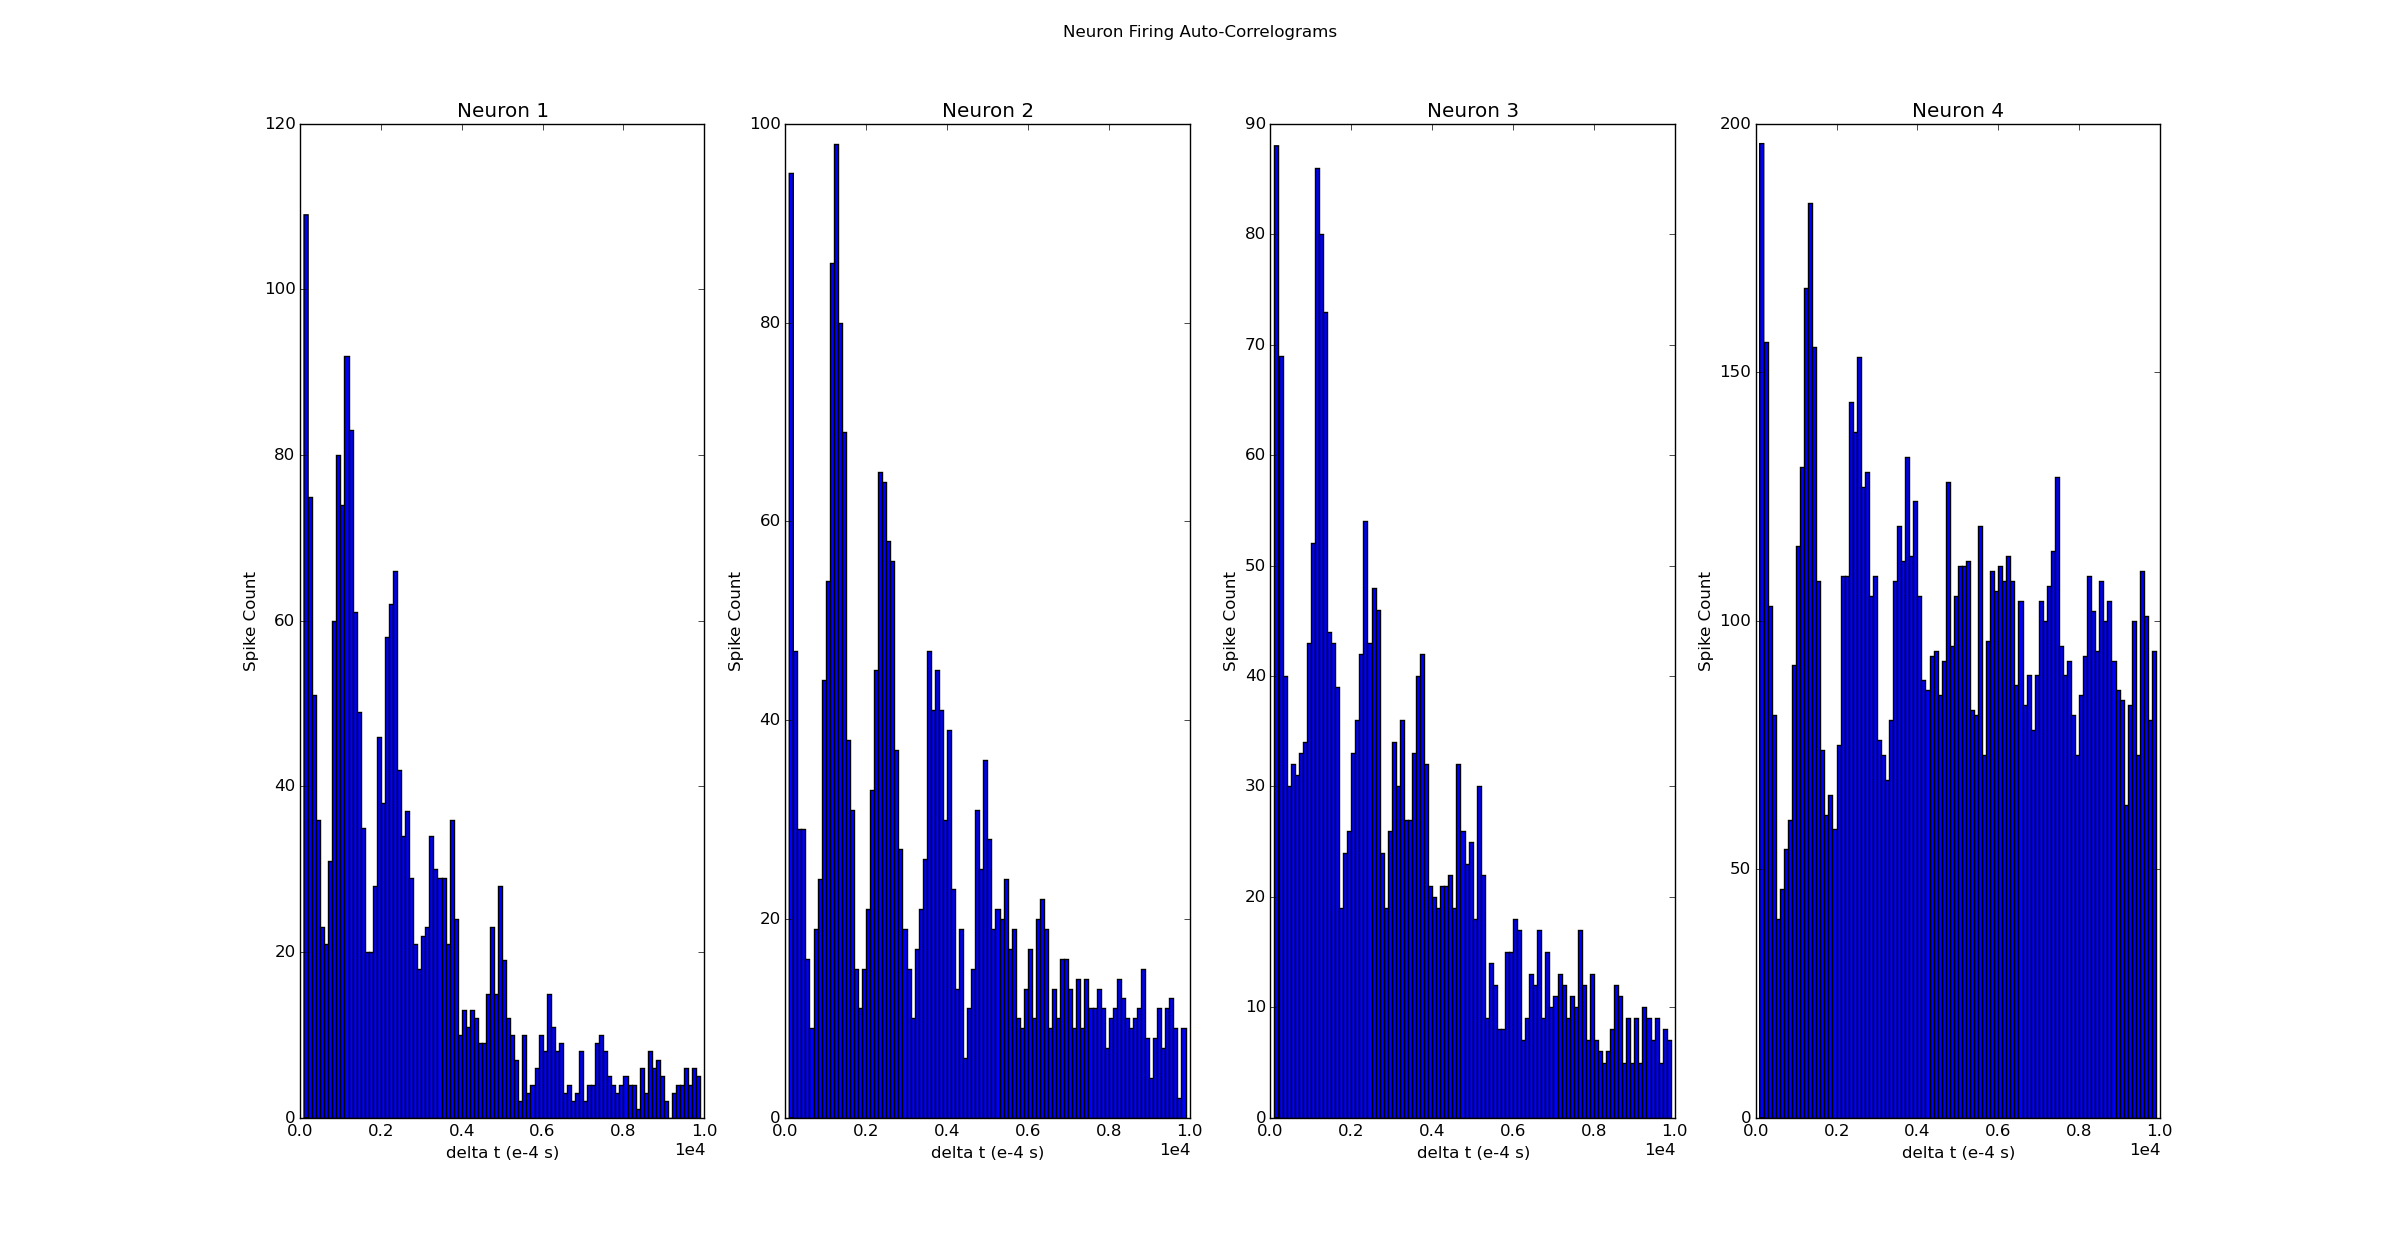
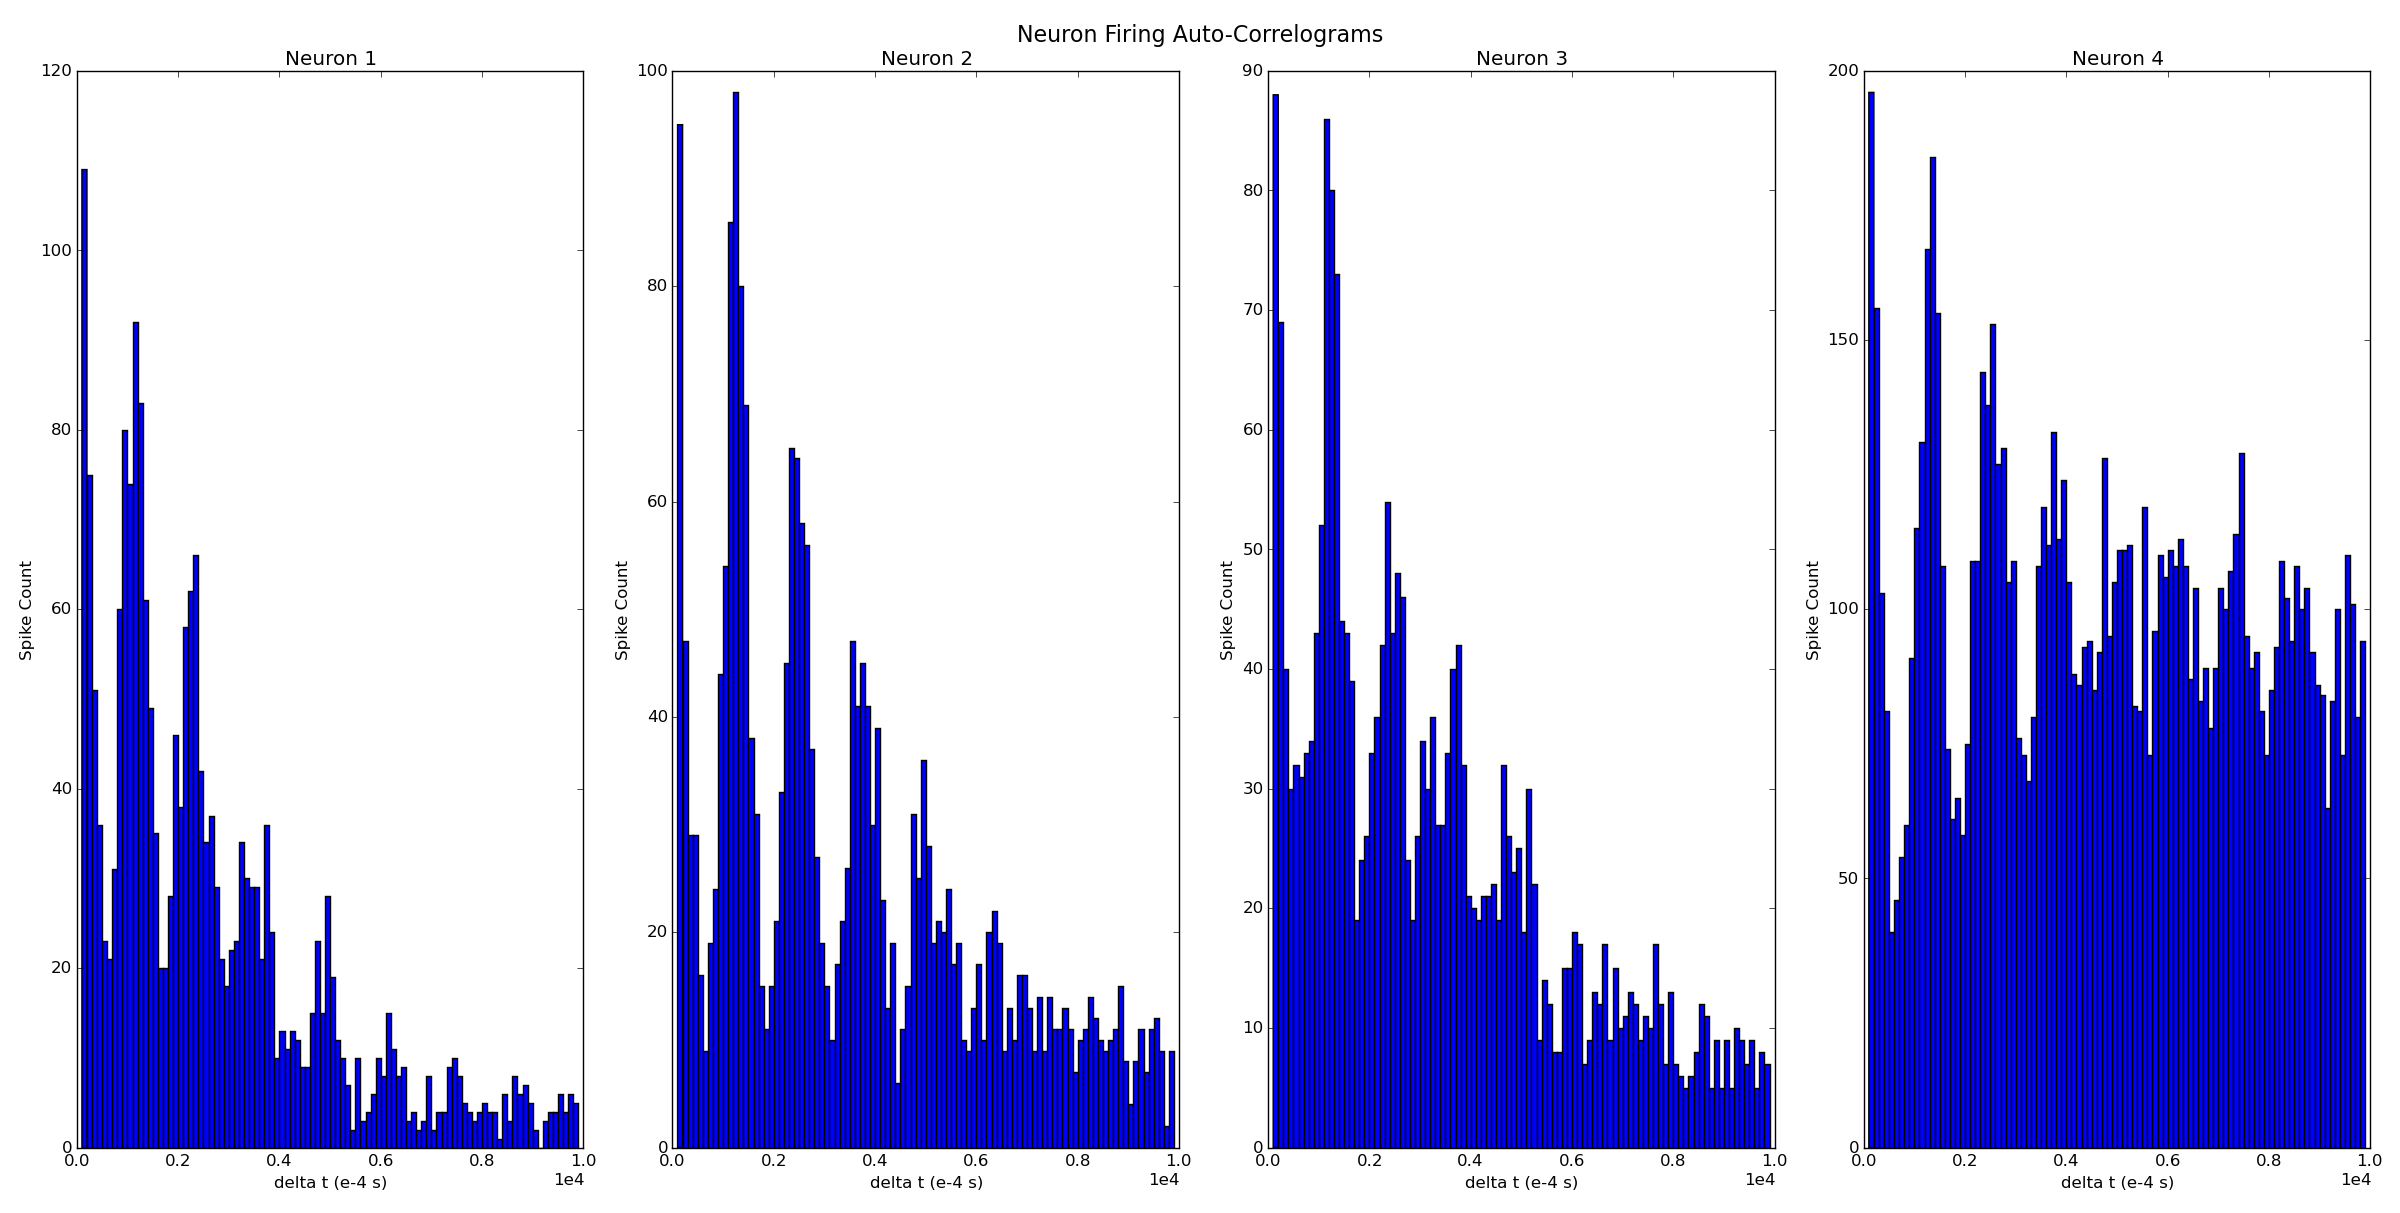
Cut out most of xcorr. Write about xcorr. Hide fire rates.

diff --git a/COMS30127/rat/rat.py b/COMS30127/rat/rat.py
@@ -18,7 +18,7 @@ def run():
     neuron_pos_plot(times, x, y, neuron)
     neuron_autocorrelograms_plot(neuron)
     neuron_correlograms_plot(neuron)
-    neuron_firerate_plot(min(times), max(times), neuron)
+#    neuron_firerate_plot(min(times), max(times), neuron)
 
 # Need to find the nearest time point
 def binsearch_time_pos(times, x, y, target_time):
@@ -53,7 +53,7 @@ def neuron_pos_plot(times, x, y, neuron):
 
     neuron_pos = [[binsearch_time_pos(times, x, y, t) for t in n] for n in neuron]
     
-    fig.suptitle('Neuron Firing Positions', fontsize=14)
+    fig.suptitle('Neuron Firing Positions', fontsize=16)
 
     colors = ('b', 'g', 'r', 'y')
     for n, pos_list in enumerate(neuron_pos):
@@ -78,7 +78,7 @@ def neuron_pos_plot(times, x, y, neuron):
 def neuron_autocorrelograms_plot(neurons):
     fig, ax = plt.subplots(1, 4)
 
-    fig.suptitle('Neuron Firing Auto-Correlograms')
+    fig.suptitle('Neuron Firing Auto-Correlograms', fontsize = 16)
 
     for i, neuron in enumerate(neurons):
         # Try doing it manually by calculating the difference.
@@ -95,32 +95,29 @@ def neuron_autocorrelograms_plot(neurons):
     plt.show()
 
 def neuron_correlograms_plot(neurons):
-    fig, axs = plt.subplots(4, 4, sharex=True)
+    fig, axs = plt.subplots(1, 2)
 
-    fig.suptitle('Neuron Firing Cross-Correlograms')
+    fig.suptitle('Neuron Firing Cross-Correlograms', fontsize = 16)
 
-    for ax, (neuronA, neuronB) in itt.izip(axs.flat, itt.product(neurons, repeat=2)):
+    for ax, (neuronA, neuronB) in itt.izip(axs, [(neurons[0],neurons[2]), (neurons[1],neurons[3])]):
+        print(len(neuronA), len(neuronB))
         # Try doing it manually by calculating the difference.
         diffs = [ta - tb for ta in neuronA for tb in neuronB]
         # Bin the differences, skip 0 as it's not particularly interesting
-        bins = np.arange(100, 10000, 100)
+        bins = np.arange(-10000, 10000, 100)
         n, bins, _ = ax.hist(diffs, bins=bins)
         #ax[i].set_title('Neuron {0}'.format(i + 1))
         #ax.set_xlabel('delta t (e-4 s)')
         #ax.set_ylabel('Spike Count')
         ax.ticklabel_format(style='sci', axis='x', scilimits=(0,0))
-
-    # Label the columns with the neuron number
-    for i, ax in enumerate(axs[0]):
-        ax.set_title('Neuron {0}'.format(i + 1))
-
-    # Label only the bottom row with the x axis label
-    for ax in axs[-1]:
+        ax.set_xlim(-10000, 10000)
+        ax.set_ylabel('Spike Count')
         ax.set_xlabel('delta t (e-4 s)')
 
-    # Label the rows with the neuron number, by abusing the y axis label
-    for i, ax in enumerate(zip(*axs)[0]):
-        ax.set_ylabel('Neuron {0}\nSpike Count'.format(i + 1))
+    # Label the columns with the neuron number
+    #for i, ax in enumerate(axs[0]):
+    axs[0].set_title('Neuron {0} v {1}'.format(1,3))
+    axs[1].set_title('Neuron {0} v {1}'.format(2,4))
 
     plt.get_current_fig_manager().window.showMaximized()
     # Any adjustments to the layout fall flat as soon as the window is resized, even like this.

diff --git a/COMS30127/rat/report.tex b/COMS30127/rat/report.tex
@@ -59,8 +59,25 @@ context-dependant retrieval of episodes from memory\footnote{Hasselmo, ME;
   Eichenbaum H (2005). 'Hippocampal mechanisms for the context-dependent
   retrieval of episodes'}, or as a mechanism for the relative timing of
 disparate neural networks\footnote{Jones MW, Wilson MA (2005). 'Theta Rhythms
-  Coordinate Hippocampal–Prefrontal Interactions in a Spatial Memory Task'}.
+  Coordinate Hippocampal–Prefrontal Interactions in a Spatial Memory
+  Task'}. Interestingly, neuron 4 exhibits a superimposed lower frequency signal
+of approximately \SI{1}{\hertz}, a small portion of which is visible in the
+plot.
 
+\subsection*{Neuron Cross-correlograms}
+\begin{figure}[H]
+  \centering
+  \includegraphics[width=1.0\textwidth]{neuron_xcorr_plot.png}
+  \caption{Cross-correlograms of selected neuron spike train pairs.}
+  \label{fig:xcorr}
+\end{figure}
+
+Figure \ref{fig:xcorr} shows some cross-correlograms of neuron
+pairs. Unfortunately, the theta rhythms present in all the recorded neurons
+obscure any meaningful relationships that may otherwise have been revealed
+here. A quick evaluation of the two plots above shows that Neurons 2 and 4 have
+little correlation, with a fairly even set of histogram heights. Neurons 1 and 3
+on the other hand shows some correlation around the \SI{0.8}{\second} mark.
 
 
 
